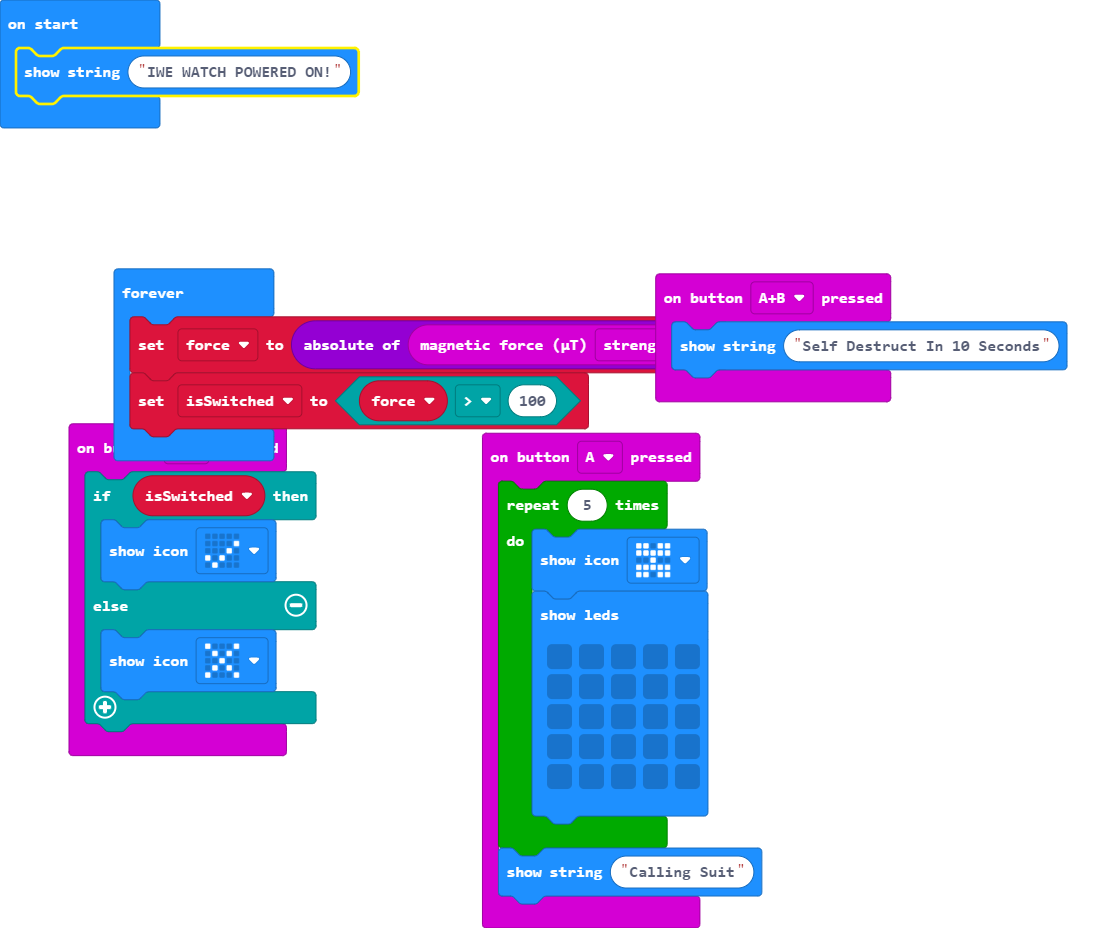
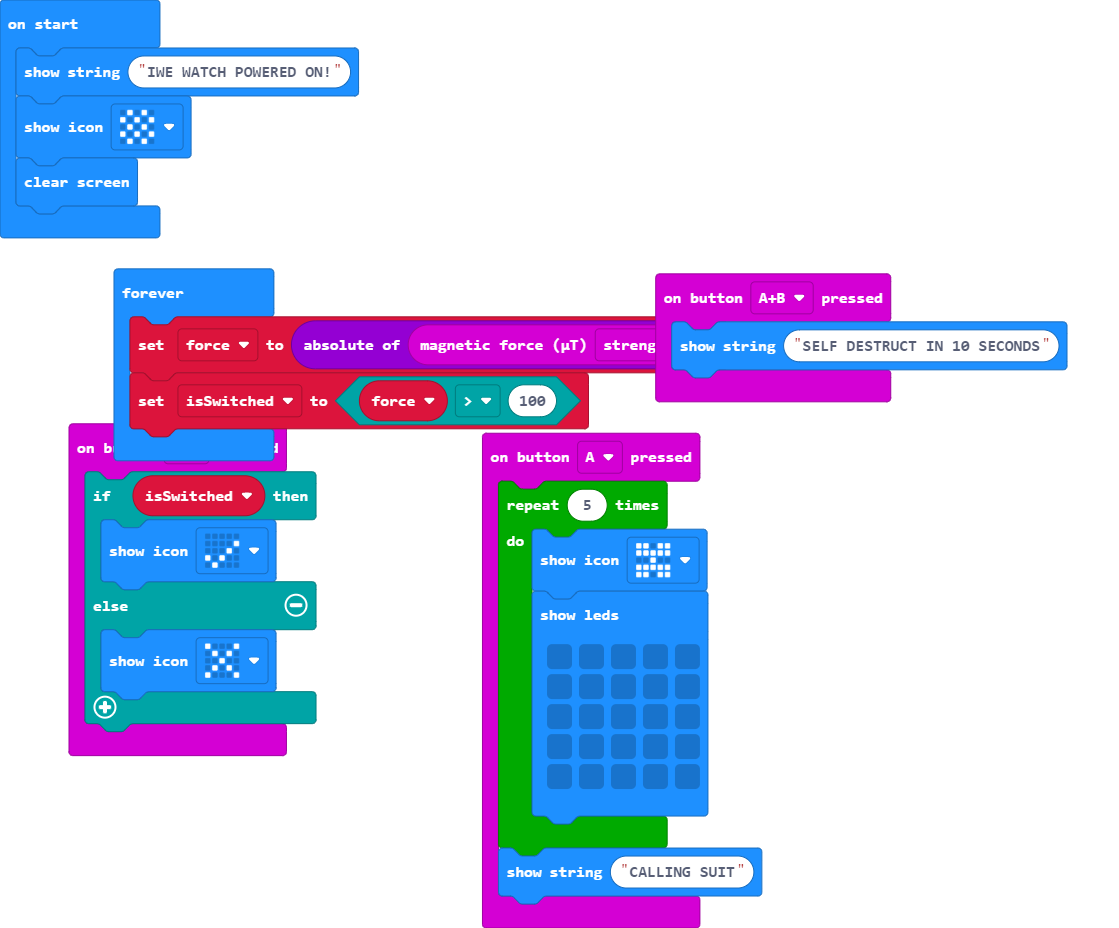
Update main.blocks, main.ts

diff --git a/main.ts b/main.ts
@@ -9,10 +9,10 @@ input.onButtonPressed(Button.A, function () {
             . . . . .
             `)
     }
-    basic.showString("Calling Suit")
+    basic.showString("CALLING SUIT")
 })
 input.onButtonPressed(Button.AB, function () {
-    basic.showString("Self Destruct In 10 Seconds")
+    basic.showString("SELF DESTRUCT IN 10 SECONDS")
 })
 input.onButtonPressed(Button.B, function () {
     if (isSwitched) {
@@ -24,6 +24,8 @@ input.onButtonPressed(Button.B, function () {
 let force = 0
 let isSwitched = false
 basic.showString("IWE WATCH POWERED ON!")
+basic.showIcon(IconNames.Chessboard)
+basic.clearScreen()
 basic.forever(function () {
     force = Math.abs(input.magneticForce(Dimension.Strength))
     isSwitched = force > 100
